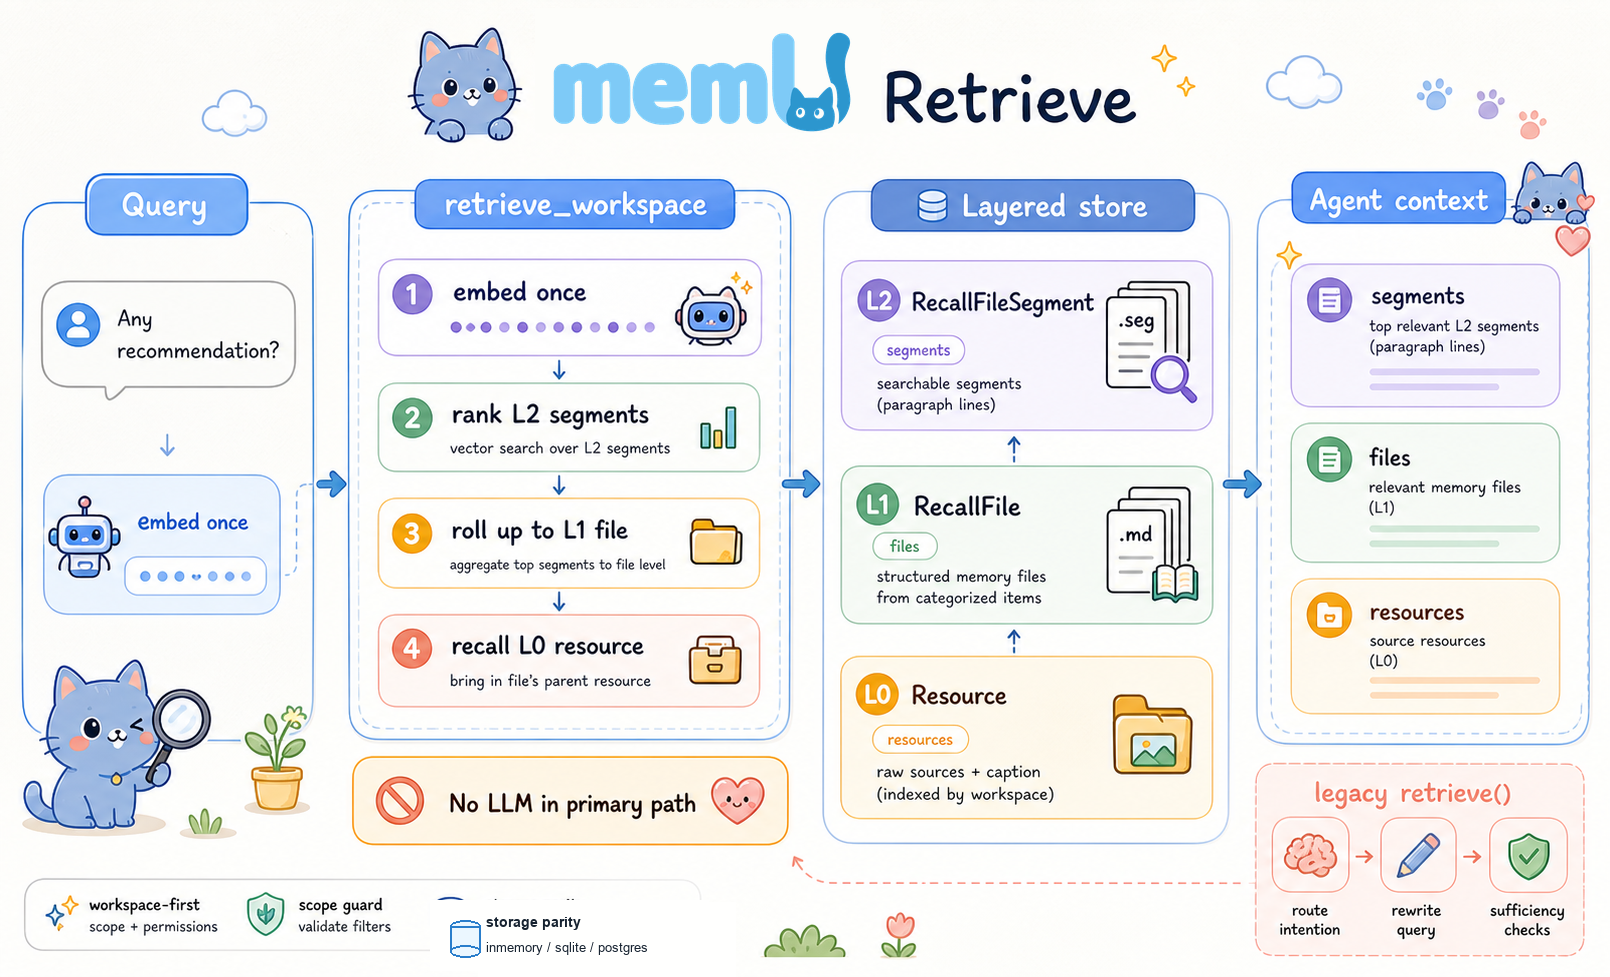
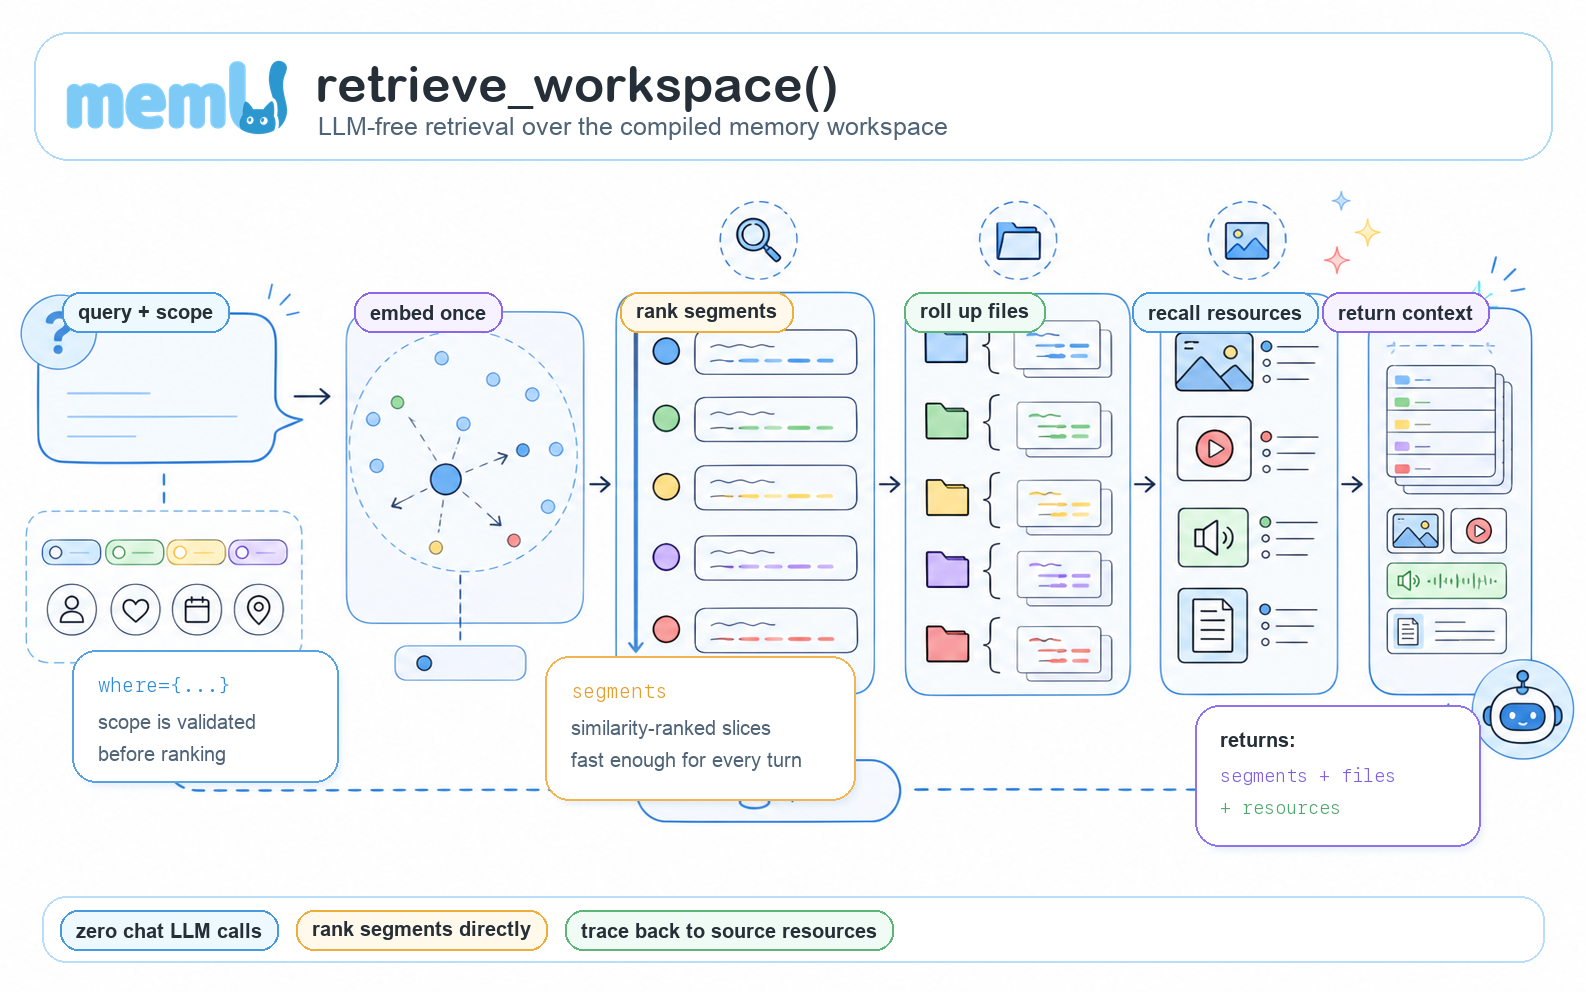
docs: focus readme on workspace APIs

Changed region(s): [[0.0, 0.0307, 1.0, 0.9826], [0.7724, 0.0307, 0.8342, 0.1228], [0.7106, 0.0307, 0.7415, 0.0921]]

diff --git a/README.md b/README.md
@@ -90,7 +90,7 @@ If you find memU useful or interesting, a GitHub Star ⭐️ would be greatly ap
 | 🧠 **Typed Memory Extraction** | Extract profile, event, knowledge, behavior, skill, and tool memories from raw sources |
 | 🛠️ **Self-Evolving Skills** | Auto-extract reusable tool patterns and workflows from agent traces, then merge and refine them on every workspace sync instead of relearning |
 | 🧭 **Self-Organizing Folders** | Auto-build categories, links, summaries, and embeddings without manual tagging |
-| 🤖 **Agent-Ready Retrieval** | LLM-free `retrieve_workspace()` as the primary read path, with LLM-routed `retrieve()` as the legacy deep path |
+| 🤖 **Agent-Ready Retrieval** | LLM-free `retrieve_workspace()` ranks memory segments, files, and source resources directly |
 | 🔄 **Incremental Workspace Sync** | `memorize_workspace()` diffs a folder against a manifest — only changed files are (re)processed, deletions cascade |
 | 🧱 **Pluggable Storage** | Use in-memory, SQLite, or Postgres backends with the same repository contracts |
 | 🔀 **Profile-Based LLM Routing** | Route chat, embedding, vision, and transcription work through configurable LLM profiles |
@@ -100,7 +100,7 @@ If you find memU useful or interesting, a GitHub Star ⭐️ would be greatly ap
 
 ## 🎯 Use Cases
 
-Every use case is the same loop: drop sources into a folder, sync it with `memorize_workspace()`, then ask with `retrieve_workspace()`. The sync is incremental (only changed files are reprocessed), and the top-level directory decides the treatment — `chat/` → memory topics, `agent/` → skills, everything else → indexed context. The single-file `memorize()` and LLM-routed `retrieve()` remain available as the legacy path (see [Core APIs](#-core-apis)).
+Every use case is the same loop: drop sources into a folder, sync it with `memorize_workspace()`, then ask with `retrieve_workspace()`. The sync is incremental (only changed files are reprocessed), and the top-level directory decides the treatment — `chat/` → memory topics, `agent/` → skills, everything else → indexed context.
 
 ### 1. **Personal Memory**
 *Turn chat logs into user preferences, goals, events, decisions, and relationship context.*
@@ -147,11 +147,12 @@ context = await service.retrieve_workspace("Which tools worked for config editin
 
 ## 🗂️ Architecture
 
-The compiled workspace is hierarchical enough for browsing and structured enough for direct retrieval:
+The compiled workspace is easiest to read as two directions:
 
-<img width="100%" alt="structure" src="assets/structure.png" />
+- `memorize_workspace()` writes a folder into durable memory files, skill files, resource records, segments, links, and embeddings.
+- `retrieve_workspace()` reads those layers directly, ranking segments first and rolling results up to the files and resources an agent should load.
 
-Memory is stored in three representation layers; retrieval searches the finest layer and rolls up:
+Memory is stored in three representation layers:
 
 | Layer | What it holds | Retrieval Role |
 |-------|---------------|----------------|
@@ -159,7 +160,7 @@ Memory is stored in three representation layers; retrieval searches the finest l
 | **Segment** | Fine slices of a file (paragraph lines, skill descriptions) | The embedded search unit — queries rank segments first |
 | **Resource** | The raw source artifact with its caption | Recall original context when synthesized summaries are not enough |
 
-Two read paths share this store: `retrieve()` adds LLM intention routing, query rewriting, and sufficiency checks on top; `retrieve_workspace()` embeds the query once and ranks segments/resources directly with zero LLM calls.
+`retrieve_workspace()` embeds the query once, ranks segments and resources by similarity, and returns compact context with zero chat-LLM calls.
 
 See [docs/architecture.md](docs/architecture.md) for the runtime view of `MemoryService`, workflow pipelines, storage backends, and LLM routing, and [docs/adr/](docs/adr/README.md) for the decision records behind the layered design.
 
@@ -239,9 +240,6 @@ export OPENAI_API_KEY=your_key
 memu memorize-workspace ./workspace             # diff-sync a folder (alias: memu sync)
 memu retrieve-workspace "deploy checklist"      # LLM-free embedding retrieval (alias: memu search)
 memu export                                     # rebuild the INDEX.md/MEMORY.md/SKILL.md tree
-
-memu memorize notes/meeting.md                  # legacy: single file, modality inferred from extension
-memu retrieve "launch preferences?"             # legacy: LLM-routed retrieval
 ```
 
 Every flag has a `MEMU_*` environment variable (`--provider`/`MEMU_LLM_PROVIDER`, `--model`/`MEMU_CHAT_MODEL`, `--db`/`MEMU_DB`, ...) — run `memu <command> --help` for the full list. `--db` accepts a SQLite path, a `postgres://` DSN, or `:memory:`.
@@ -319,11 +317,11 @@ service = MemoryService(
 
 ## 📖 Core APIs
 
-The primary pair is `memorize_workspace()` / `retrieve_workspace()` — folder in, ranked context out. The single-file `memorize()` and LLM-routed `retrieve()` are the legacy pair, kept for existing integrations — new code should use the workspace pair.
+The primary API pair is `memorize_workspace()` / `retrieve_workspace()` — folder in, ranked context out.
 
 ### `memorize_workspace()` — Sync a Folder
 
-<img width="100%" alt="memorize" src="assets/memorize.png" />
+<img width="100%" alt="memorize_workspace" src="assets/memorize.png" />
 
 ```python
 result = await service.memorize_workspace(
@@ -343,6 +341,8 @@ result = await service.memorize_workspace(
 
 ### `retrieve_workspace()` — Fast, LLM-Free Retrieval
 
+<img width="100%" alt="retrieve_workspace" src="assets/retrieve.png" />
+
 ```python
 result = await service.retrieve_workspace(
     "deploy checklist",
@@ -355,55 +355,6 @@ result = await service.retrieve_workspace(
 ```
 
 The query is embedded once and ranked by vector similarity — no intention routing, no query rewriting, no sufficiency checks, zero LLM calls. Use it for high-frequency lookups where latency and cost matter more than deep reasoning.
-
----
-
-### `memorize()` — Structure a Single Source *(legacy)*
-
-```python
-result = await service.memorize(
-    resource_url="path/to/file.json",    # local file path or HTTP URL
-    modality="conversation",            # conversation | document | image | video | audio
-    user={"user_id": "123"},            # optional: scope to a user or agent
-)
-# Returns after processing completes:
-# { "resource": {...}, "items": [...], "categories": [...], "relations": [...] }
-```
-
-The original push-style entry point: one resource per call, extracted into typed memory items and categorized without manual tagging. No change detection or deletion handling — that is what `memorize_workspace()` adds.
-
----
-
-### `retrieve()` — LLM-Routed Retrieval *(legacy)*
-
-<img width="100%" alt="retrieve" src="assets/retrieve.png" />
-
-```python
-# The retrieval strategy is set once on the service via retrieve_config:
-#   MemoryService(retrieve_config={"method": "rag"})   # vector-first recall
-#   MemoryService(retrieve_config={"method": "llm"})   # LLM-ranked recall
-result = await service.retrieve(
-    queries=[{"role": "user", "content": {"text": "What are their preferences?"}}],
-    where={"user_id": "123"},   # scope filter
-)
-# Returns:
-# {
-#   "needs_retrieval": true,
-#   "original_query": "...",
-#   "rewritten_query": "...",
-#   "next_step_query": "...",
-#   "categories": [...],
-#   "items": [...],
-#   "resources": [...]
-# }
-```
-
-The legacy deep path: takes multi-turn conversation context, decides whether to retrieve at all, rewrites the query, ranks per layer, and checks sufficiency. Kept for existing integrations only — new code should use `retrieve_workspace()`.
-
-| `retrieve_config.method` | Behavior | Cost | Best For |
-|--------------------------|----------|------|----------|
-| `rag` | Vector-first category/item/resource recall, with optional LLM routing and sufficiency checks enabled by default | Embeddings plus LLM calls unless `route_intention` and `sufficiency_check` are disabled | Fast scoped recall with controllable reasoning |
-| `llm` | LLM-ranked category/item/resource recall | LLM ranking at each tier | Deeper semantic ranking |
 
 ---
 